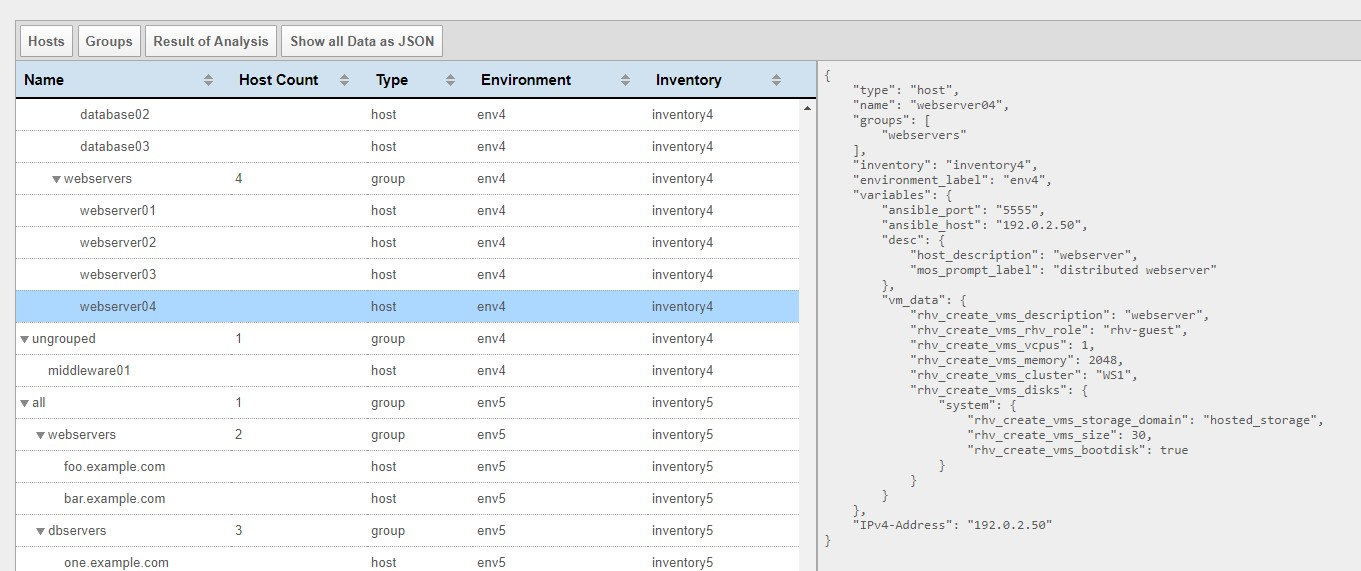
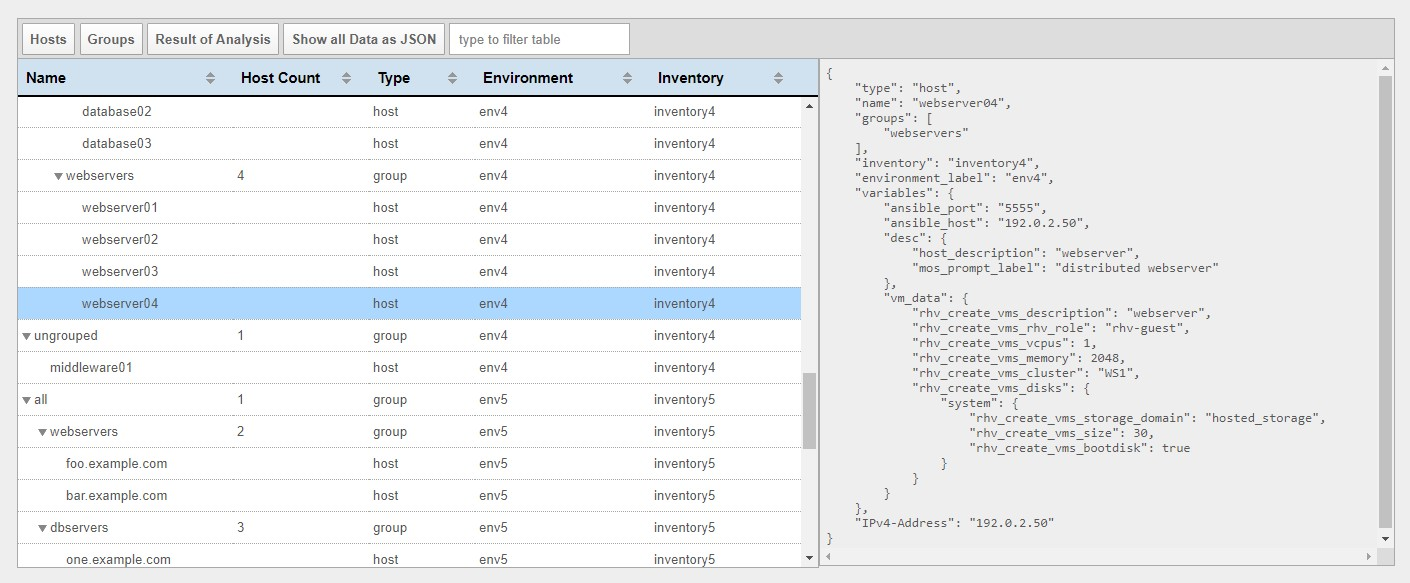
filter added

diff --git a/webpage/index.html b/webpage/index.html
@@ -3,7 +3,7 @@
 <head>
   <meta charset="utf-8">
   <meta http-equiv="Content-Type" content="text/html">
-  <title>Simple Table Sorting with jQuery - Treehouse Demo</title>
+  <title>Ansible Inventory Browser</title>
   <meta name="author" content="Jake Rocheleau">
   <link rel="shortcut icon" href="http://d15dxvojnvxp1x.cloudfront.net/assets/favicon.ico">
   <link rel="icon" href="http://d15dxvojnvxp1x.cloudfront.net/assets/favicon.ico">
@@ -27,6 +27,10 @@
             <button id="btGroups">Groups</button>
             <button id="btAnalyse">Result of Analysis</button>
             <button id="btJSON">Show all Data as JSON</button>
+            <input id="filterTextField" type="text" value="" 
+                style="color: grey; padding-left: 8px; height: 26px; "
+                onkeydown="onKeyDownFilterTable()" onkeyup="onKeyUpFilterTable()" 
+                onfocus="onfocusFilterTable()" onblur="onblurFilterTable()"></span>
         </div>
         <pre id="detailView" ></pre>
     </div>
@@ -96,6 +100,66 @@
             $('#detailView').html( JSON.stringify( data, null, 4) )
         })
 
+        
+        /**
+         * filter functions 
+         */
+
+        var filterInfoText = "type to filter table"
+        $('#filterTextField').val(filterInfoText)
+        function onKeyDownFilterTable() { 
+            console.log("keyDown")
+            var value = $('#filterTextField').val()
+
+            if (value == filterInfoText) onfocusFilterTable()
+            else scrollableTable.filter($('#filterTextField').val()) 
+        }
+        function onKeyUpFilterTable() { 
+            console.log("keyUp")
+            var value = $('#filterTextField').val()
+
+            if (value == '') onblurFilterTable()
+            else if (value == filterInfoText) {
+                setCaretToPos( document.getElementById('filterTextField'), 0);
+                scrollableTable.filter('')
+            }
+            else scrollableTable.filter($('#filterTextField').val()) 
+        }
+        function onfocusFilterTable() {
+            console.log("focus")
+            if ($('#filterTextField').val() == filterInfoText) {
+                $('#filterTextField').val('')
+                $('#filterTextField').css('color', 'black') 
+            }
+        }
+        function onblurFilterTable() { 
+            console.log("blur")
+            if ($('#filterTextField').val() == '') { 
+                $('#filterTextField').css('color', 'grey') 
+                $('#filterTextField').val(filterInfoText)
+            }
+        }
+
+        function setSelectionRange(input, selectionStart, selectionEnd) {
+            if (input.setSelectionRange) {
+                input.focus();
+                input.setSelectionRange(selectionStart, selectionEnd);
+            }
+            else if (input.createTextRange) {
+                var range = input.createTextRange();
+                range.collapse(true);
+                range.moveEnd('character', selectionEnd);
+                range.moveStart('character', selectionStart);
+                range.select();
+            }
+        }
+        function setCaretToPos(input, pos) {
+            setSelectionRange(input, pos, pos);
+        }
+
+        /**
+         * end filter functions 
+         */
 
         // Initially load host view
         $('#btHosts').trigger( "click" );
